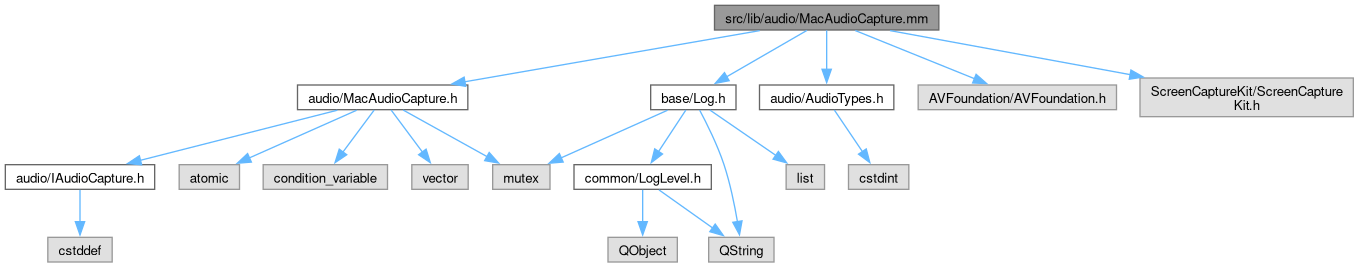
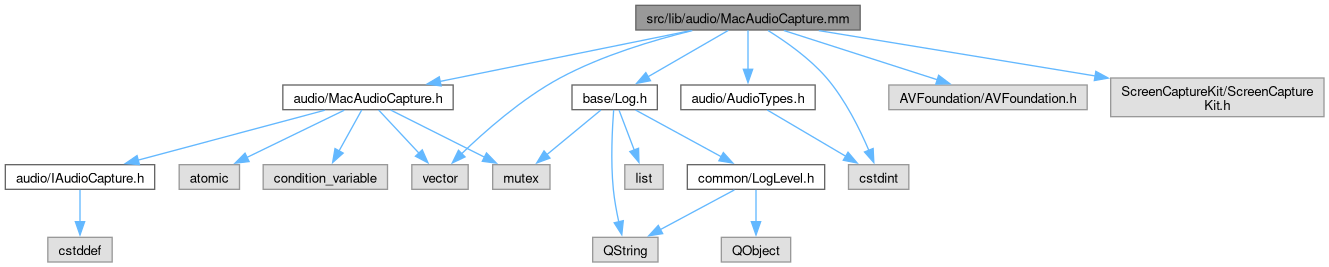
Deploying to gh-pages from @ oudajosefu/deskflow@6e931e1f8ef29edbad8c8bf99ab2422f95a3c308 🚀

diff --git a/MacAudioCapture_8h_source.html b/MacAudioCapture_8h_source.html
@@ -153,15 +153,15 @@ $(function(){initNavTree('MacAudioCapture_8h_source.html','',''); });
 <div class="ttc" id="aMacAudioCapture_8h_html_abdaadcb8f51c9c4423ab848590111983"><div class="ttname"><a href="MacAudioCapture_8h.html#abdaadcb8f51c9c4423ab848590111983">DeskflowAudioStreamOutput</a></div><div class="ttdeci">struct objc_object DeskflowAudioStreamOutput</div><div class="ttdef"><b>Definition</b> MacAudioCapture.h:21</div></div>
 <div class="ttc" id="aMacAudioCapture_8h_html_afaf832e82143f75a1d44a1131e4e8061"><div class="ttname"><a href="MacAudioCapture_8h.html#afaf832e82143f75a1d44a1131e4e8061">SCStream</a></div><div class="ttdeci">struct objc_object SCStream</div><div class="ttdef"><b>Definition</b> MacAudioCapture.h:20</div></div>
 <div class="ttc" id="aclassIAudioCapture_html"><div class="ttname"><a href="classIAudioCapture.html">IAudioCapture</a></div><div class="ttdoc">Platform-agnostic interface for capturing system audio output (loopback).</div><div class="ttdef"><b>Definition</b> IAudioCapture.h:13</div></div>
-<div class="ttc" id="aclassMacAudioCapture_html_a179a2bda7aa57c9bd58f9a57bb2425fe"><div class="ttname"><a href="classMacAudioCapture.html#a179a2bda7aa57c9bd58f9a57bb2425fe">MacAudioCapture::start</a></div><div class="ttdeci">bool start() override</div><div class="ttdoc">Open the capture device and start recording. Returns false on failure.</div><div class="ttdef"><b>Definition</b> MacAudioCapture.mm:81</div></div>
-<div class="ttc" id="aclassMacAudioCapture_html_a19eeee82b7a6ce2835ad0335f310c84c"><div class="ttname"><a href="classMacAudioCapture.html#a19eeee82b7a6ce2835ad0335f310c84c">MacAudioCapture::appendSamples</a></div><div class="ttdeci">void appendSamples(const float *data, size_t frames)</div><div class="ttdoc">Called by the Objective-C delegate when audio samples arrive.</div><div class="ttdef"><b>Definition</b> MacAudioCapture.mm:185</div></div>
+<div class="ttc" id="aclassMacAudioCapture_html_a179a2bda7aa57c9bd58f9a57bb2425fe"><div class="ttname"><a href="classMacAudioCapture.html#a179a2bda7aa57c9bd58f9a57bb2425fe">MacAudioCapture::start</a></div><div class="ttdeci">bool start() override</div><div class="ttdoc">Open the capture device and start recording. Returns false on failure.</div><div class="ttdef"><b>Definition</b> MacAudioCapture.mm:121</div></div>
+<div class="ttc" id="aclassMacAudioCapture_html_a19eeee82b7a6ce2835ad0335f310c84c"><div class="ttname"><a href="classMacAudioCapture.html#a19eeee82b7a6ce2835ad0335f310c84c">MacAudioCapture::appendSamples</a></div><div class="ttdeci">void appendSamples(const float *data, size_t frames)</div><div class="ttdoc">Called by the Objective-C delegate when audio samples arrive.</div><div class="ttdef"><b>Definition</b> MacAudioCapture.mm:225</div></div>
 <div class="ttc" id="aclassMacAudioCapture_html_a711ac2c3c3cc8806ec8b4c4439dd6c9c"><div class="ttname"><a href="classMacAudioCapture.html#a711ac2c3c3cc8806ec8b4c4439dd6c9c">MacAudioCapture::MacAudioCapture</a></div><div class="ttdeci">MacAudioCapture(const MacAudioCapture &amp;)=delete</div></div>
-<div class="ttc" id="aclassMacAudioCapture_html_a74edd5b90de64a2e91b7485833b5dcec"><div class="ttname"><a href="classMacAudioCapture.html#a74edd5b90de64a2e91b7485833b5dcec">MacAudioCapture::~MacAudioCapture</a></div><div class="ttdeci">~MacAudioCapture() override</div><div class="ttdef"><b>Definition</b> MacAudioCapture.mm:76</div></div>
+<div class="ttc" id="aclassMacAudioCapture_html_a74edd5b90de64a2e91b7485833b5dcec"><div class="ttname"><a href="classMacAudioCapture.html#a74edd5b90de64a2e91b7485833b5dcec">MacAudioCapture::~MacAudioCapture</a></div><div class="ttdeci">~MacAudioCapture() override</div><div class="ttdef"><b>Definition</b> MacAudioCapture.mm:116</div></div>
 <div class="ttc" id="aclassMacAudioCapture_html_abd1972553fb1283e08bdd4bc363704a3"><div class="ttname"><a href="classMacAudioCapture.html#abd1972553fb1283e08bdd4bc363704a3">MacAudioCapture::operator=</a></div><div class="ttdeci">MacAudioCapture &amp; operator=(const MacAudioCapture &amp;)=delete</div></div>
-<div class="ttc" id="aclassMacAudioCapture_html_acce71548b4bd9f4a11ceecaaa2640379"><div class="ttname"><a href="classMacAudioCapture.html#acce71548b4bd9f4a11ceecaaa2640379">MacAudioCapture::readFrames</a></div><div class="ttdeci">size_t readFrames(float *buf, size_t frames) override</div><div class="ttdef"><b>Definition</b> MacAudioCapture.mm:163</div></div>
-<div class="ttc" id="aclassMacAudioCapture_html_af8dfbb0a61f1bc23757361c1a48151a9"><div class="ttname"><a href="classMacAudioCapture.html#af8dfbb0a61f1bc23757361c1a48151a9">MacAudioCapture::stop</a></div><div class="ttdeci">void stop() override</div><div class="ttdoc">Stop capture and release device resources.</div><div class="ttdef"><b>Definition</b> MacAudioCapture.mm:151</div></div>
-<div class="ttc" id="aclassMacAudioCapture_html_aff3a220f746825c4b0f5a4b9dacf288c"><div class="ttname"><a href="classMacAudioCapture.html#aff3a220f746825c4b0f5a4b9dacf288c">MacAudioCapture::MacAudioCapture</a></div><div class="ttdeci">MacAudioCapture()</div><div class="ttdef"><b>Definition</b> MacAudioCapture.mm:72</div></div>
-<div class="ttc" id="ainterfaceDeskflowAudioStreamOutput_html"><div class="ttname"><a href="interfaceDeskflowAudioStreamOutput.html">DeskflowAudioStreamOutput</a></div><div class="ttdef"><b>Definition</b> MacAudioCapture.mm:20</div></div>
+<div class="ttc" id="aclassMacAudioCapture_html_acce71548b4bd9f4a11ceecaaa2640379"><div class="ttname"><a href="classMacAudioCapture.html#acce71548b4bd9f4a11ceecaaa2640379">MacAudioCapture::readFrames</a></div><div class="ttdeci">size_t readFrames(float *buf, size_t frames) override</div><div class="ttdef"><b>Definition</b> MacAudioCapture.mm:203</div></div>
+<div class="ttc" id="aclassMacAudioCapture_html_af8dfbb0a61f1bc23757361c1a48151a9"><div class="ttname"><a href="classMacAudioCapture.html#af8dfbb0a61f1bc23757361c1a48151a9">MacAudioCapture::stop</a></div><div class="ttdeci">void stop() override</div><div class="ttdoc">Stop capture and release device resources.</div><div class="ttdef"><b>Definition</b> MacAudioCapture.mm:191</div></div>
+<div class="ttc" id="aclassMacAudioCapture_html_aff3a220f746825c4b0f5a4b9dacf288c"><div class="ttname"><a href="classMacAudioCapture.html#aff3a220f746825c4b0f5a4b9dacf288c">MacAudioCapture::MacAudioCapture</a></div><div class="ttdeci">MacAudioCapture()</div><div class="ttdef"><b>Definition</b> MacAudioCapture.mm:112</div></div>
+<div class="ttc" id="ainterfaceDeskflowAudioStreamOutput_html"><div class="ttname"><a href="interfaceDeskflowAudioStreamOutput.html">DeskflowAudioStreamOutput</a></div><div class="ttdef"><b>Definition</b> MacAudioCapture.mm:23</div></div>
 </div><!-- fragment --></div><!-- contents -->
 </div><!-- doc-content -->
 </div><!-- container -->

diff --git a/MacAudioCapture_8mm.html b/MacAudioCapture_8mm.html
@@ -97,6 +97,8 @@ $(function(){initNavTree('MacAudioCapture_8mm.html','',''); });
 <div class="textblock"><code>#include &quot;<a class="el" href="MacAudioCapture_8h_source.html">audio/MacAudioCapture.h</a>&quot;</code><br />
 <code>#include &quot;<a class="el" href="AudioTypes_8h_source.html">audio/AudioTypes.h</a>&quot;</code><br />
 <code>#include &quot;<a class="el" href="Log_8h_source.html">base/Log.h</a>&quot;</code><br />
+<code>#include &lt;cstdint&gt;</code><br />
+<code>#include &lt;vector&gt;</code><br />
 <code>import &lt;AVFoundation/AVFoundation.h&gt;</code><br />
 <code>import &lt;ScreenCaptureKit/ScreenCaptureKit.h&gt;</code><br />
 </div><div class="textblock"><div class="dynheader">
@@ -104,41 +106,43 @@ Include dependency graph for MacAudioCapture.mm:</div>
 <div class="dyncontent">
 <div class="center"><img src="MacAudioCapture_8mm__incl.png" border="0" usemap="#asrc_2lib_2audio_2MacAudioCapture_8mm" loading="lazy" alt=""/></div>
 <map name="asrc_2lib_2audio_2MacAudioCapture_8mm" id="asrc_2lib_2audio_2MacAudioCapture_8mm">
-<area shape="rect" title=" " alt="" coords="714,5,939,30"/>
-<area shape="rect" href="MacAudioCapture_8h.html" title=" " alt="" coords="298,85,468,110"/>
-<area shape="poly" title=" " alt="" coords="757,32,465,84,464,79,762,30"/>
-<area shape="rect" href="AudioTypes_8h.html" title=" " alt="" coords="760,85,894,110"/>
-<area shape="poly" title=" " alt="" coords="828,28,829,71,825,68,825,32"/>
-<area shape="rect" href="Log_8h.html" title=" " alt="" coords="651,85,736,110"/>
-<area shape="poly" title=" " alt="" coords="809,29,728,79,725,74,805,31"/>
-<area shape="rect" title=" " alt="" coords="918,85,1116,110"/>
-<area shape="poly" title=" " alt="" coords="856,28,977,79,972,79,855,33"/>
-<area shape="rect" title=" " alt="" coords="1140,78,1353,117"/>
-<area shape="poly" title=" " alt="" coords="890,28,1133,74,1128,75,890,33"/>
-<area shape="rect" href="IAudioCapture_8h.html" title=" " alt="" coords="5,165,155,189"/>
-<area shape="poly" title=" " alt="" coords="337,113,141,163,140,158,338,108"/>
-<area shape="rect" title=" " alt="" coords="179,165,240,189"/>
-<area shape="poly" title=" " alt="" coords="359,109,250,160,248,156,354,111"/>
-<area shape="rect" title=" " alt="" coords="263,165,388,189"/>
-<area shape="poly" title=" " alt="" coords="376,109,345,154,341,150,372,111"/>
-<area shape="rect" title=" " alt="" coords="493,165,550,189"/>
-<area shape="poly" title=" " alt="" coords="404,107,490,157,484,157,403,113"/>
+<area shape="rect" title=" " alt="" coords="636,5,860,30"/>
+<area shape="rect" href="MacAudioCapture_8h.html" title=" " alt="" coords="283,85,453,110"/>
+<area shape="poly" title=" " alt="" coords="688,32,441,84,439,79,693,30"/>
 <area shape="rect" title=" " alt="" coords="412,165,468,189"/>
-<area shape="poly" title=" " alt="" coords="392,108,425,153,420,152,390,112"/>
+<area shape="poly" title=" " alt="" coords="690,31,628,52,561,80,506,118,463,156,460,152,503,113,559,76,626,47,695,30"/>
+<area shape="rect" href="AudioTypes_8h.html" title=" " alt="" coords="681,85,815,110"/>
+<area shape="poly" title=" " alt="" coords="750,28,750,71,746,68,746,32"/>
+<area shape="rect" title=" " alt="" coords="848,165,909,189"/>
+<area shape="poly" title=" " alt="" coords="769,28,799,49,829,76,854,113,871,152,867,149,849,116,825,80,796,53,768,33"/>
+<area shape="rect" href="Log_8h.html" title=" " alt="" coords="572,85,657,110"/>
+<area shape="poly" title=" " alt="" coords="731,29,649,79,647,74,726,31"/>
+<area shape="rect" title=" " alt="" coords="889,85,1087,110"/>
+<area shape="poly" title=" " alt="" coords="784,28,940,80,935,80,784,33"/>
+<area shape="rect" title=" " alt="" coords="1111,78,1324,117"/>
+<area shape="poly" title=" " alt="" coords="819,28,1098,76,1093,76,819,33"/>
+<area shape="rect" href="IAudioCapture_8h.html" title=" " alt="" coords="5,165,155,189"/>
+<area shape="poly" title=" " alt="" coords="324,113,139,163,137,158,326,108"/>
+<area shape="rect" title=" " alt="" coords="179,165,240,189"/>
+<area shape="poly" title=" " alt="" coords="347,109,248,160,246,155,342,111"/>
+<area shape="rect" title=" " alt="" coords="263,165,388,189"/>
+<area shape="poly" title=" " alt="" coords="364,108,341,153,337,149,360,112"/>
+<area shape="rect" title=" " alt="" coords="493,165,550,189"/>
+<area shape="poly" title=" " alt="" coords="391,107,487,157,482,157,390,113"/>
+<area shape="poly" title=" " alt="" coords="380,108,422,154,417,153,378,113"/>
 <area shape="rect" title=" " alt="" coords="48,237,112,262"/>
 <area shape="poly" title=" " alt="" coords="82,188,83,223,77,221,78,192"/>
-<area shape="rect" title=" " alt="" coords="848,165,909,189"/>
-<area shape="poly" title=" " alt="" coords="835,108,865,153,860,151,833,112"/>
-<area shape="poly" title=" " alt="" coords="670,109,562,160,560,155,665,111"/>
-<area shape="rect" href="LogLevel_8h.html" title=" " alt="" coords="574,165,711,189"/>
-<area shape="poly" title=" " alt="" coords="688,109,660,154,657,150,684,111"/>
-<area shape="rect" title=" " alt="" coords="709,237,774,262"/>
-<area shape="poly" title=" " alt="" coords="701,108,727,164,740,223,735,220,721,166,698,112"/>
-<area shape="rect" title=" " alt="" coords="786,165,825,189"/>
-<area shape="poly" title=" " alt="" coords="711,107,779,156,774,155,709,113"/>
-<area shape="rect" title=" " alt="" coords="608,237,677,262"/>
-<area shape="poly" title=" " alt="" coords="645,188,645,224,641,220,641,192"/>
-<area shape="poly" title=" " alt="" coords="660,187,715,229,710,227,658,192"/>
+<area shape="poly" title=" " alt="" coords="768,107,848,157,843,156,767,113"/>
+<area shape="poly" title=" " alt="" coords="603,109,548,157,546,152,598,111"/>
+<area shape="rect" href="LogLevel_8h.html" title=" " alt="" coords="687,165,825,189"/>
+<area shape="poly" title=" " alt="" coords="636,107,724,157,718,156,635,113"/>
+<area shape="rect" title=" " alt="" coords="593,237,658,262"/>
+<area shape="poly" title=" " alt="" coords="615,108,615,145,616,189,621,224,617,220,611,190,609,145,612,112"/>
+<area shape="rect" title=" " alt="" coords="625,165,663,189"/>
+<area shape="poly" title=" " alt="" coords="620,108,637,151,632,149,618,112"/>
+<area shape="rect" title=" " alt="" coords="721,237,791,262"/>
+<area shape="poly" title=" " alt="" coords="758,188,758,224,754,220,754,192"/>
+<area shape="poly" title=" " alt="" coords="737,189,661,232,659,227,732,191"/>
 </map>
 </div>
 </div><table class="memberdecls">

diff --git a/WinAudioCapture_8cpp.html b/WinAudioCapture_8cpp.html
@@ -98,23 +98,32 @@ $(function(){initNavTree('WinAudioCapture_8cpp.html','',''); });
 <code>#include &quot;<a class="el" href="AudioTypes_8h_source.html">audio/AudioTypes.h</a>&quot;</code><br />
 <code>#include &quot;<a class="el" href="Log_8h_source.html">base/Log.h</a>&quot;</code><br />
 <code>#include &lt;functiondiscoverykeys_devpkey.h&gt;</code><br />
+<code>#include &lt;algorithm&gt;</code><br />
+<code>#include &lt;cstdint&gt;</code><br />
+<code>#include &lt;cstring&gt;</code><br />
 <code>#include &lt;vector&gt;</code><br />
 </div><div class="textblock"><div class="dynheader">
 Include dependency graph for WinAudioCapture.cpp:</div>
 <div class="dyncontent">
 <div class="center"><img src="WinAudioCapture_8cpp__incl.png" border="0" usemap="#asrc_2lib_2audio_2WinAudioCapture_8cpp" loading="lazy" alt=""/></div>
 <map name="asrc_2lib_2audio_2WinAudioCapture_8cpp" id="asrc_2lib_2audio_2WinAudioCapture_8cpp">
-<area shape="rect" title=" " alt="" coords="664,5,885,30"/>
+<area shape="rect" title=" " alt="" coords="713,5,935,30"/>
 <area shape="rect" href="WinAudioCapture_8h.html" title=" " alt="" coords="269,85,438,110"/>
-<area shape="poly" title=" " alt="" coords="709,32,433,84,431,79,714,29"/>
-<area shape="rect" href="AudioTypes_8h.html" title=" " alt="" coords="526,85,660,110"/>
-<area shape="poly" title=" " alt="" coords="750,30,635,81,634,76,745,31"/>
-<area shape="rect" href="Log_8h.html" title=" " alt="" coords="732,85,817,110"/>
-<area shape="poly" title=" " alt="" coords="776,28,777,71,772,68,773,32"/>
-<area shape="rect" title=" " alt="" coords="841,78,991,117"/>
-<area shape="poly" title=" " alt="" coords="796,28,871,70,866,70,795,33"/>
-<area shape="rect" title=" " alt="" coords="1014,85,1071,110"/>
-<area shape="poly" title=" " alt="" coords="830,28,913,48,1004,75,1007,79,1002,79,1002,81,912,53,830,33"/>
+<area shape="poly" title=" " alt="" coords="751,32,440,84,439,79,755,29"/>
+<area shape="rect" href="AudioTypes_8h.html" title=" " alt="" coords="502,85,636,110"/>
+<area shape="poly" title=" " alt="" coords="788,30,623,83,621,77,783,31"/>
+<area shape="rect" title=" " alt="" coords="539,165,600,189"/>
+<area shape="poly" title=" " alt="" coords="798,30,750,53,700,80,674,99,650,119,598,158,595,153,646,115,671,94,697,76,748,49,793,31"/>
+<area shape="rect" href="Log_8h.html" title=" " alt="" coords="711,85,796,110"/>
+<area shape="poly" title=" " alt="" coords="816,29,776,76,773,71,811,32"/>
+<area shape="rect" title=" " alt="" coords="820,78,969,117"/>
+<area shape="poly" title=" " alt="" coords="835,28,870,67,865,66,834,33"/>
+<area shape="rect" title=" " alt="" coords="994,85,1068,110"/>
+<area shape="poly" title=" " alt="" coords="855,28,988,79,983,79,855,33"/>
+<area shape="rect" title=" " alt="" coords="1092,85,1153,110"/>
+<area shape="poly" title=" " alt="" coords="889,28,980,48,1081,75,1086,79,1081,79,1079,81,979,53,888,33"/>
+<area shape="rect" title=" " alt="" coords="1177,85,1234,110"/>
+<area shape="poly" title=" " alt="" coords="932,28,1046,46,1166,75,1171,79,1166,79,1165,81,1045,52,932,33"/>
 <area shape="rect" href="IAudioCapture_8h.html" title=" " alt="" coords="5,165,155,189"/>
 <area shape="poly" title=" " alt="" coords="312,113,137,162,135,157,313,108"/>
 <area shape="rect" title=" " alt="" coords="179,165,274,189"/>
@@ -125,16 +134,15 @@ Include dependency graph for WinAudioCapture.cpp:</div>
 <area shape="poly" title=" " alt="" coords="372,107,445,156,440,156,370,113"/>
 <area shape="rect" title=" " alt="" coords="48,237,112,262"/>
 <area shape="poly" title=" " alt="" coords="82,188,83,223,77,221,78,192"/>
-<area shape="rect" title=" " alt="" coords="539,165,600,189"/>
-<area shape="poly" title=" " alt="" coords="592,108,579,152,575,148,588,112"/>
+<area shape="poly" title=" " alt="" coords="571,108,572,151,567,147,568,112"/>
 <area shape="rect" href="LogLevel_8h.html" title=" " alt="" coords="623,165,761,189"/>
-<area shape="poly" title=" " alt="" coords="765,109,717,156,714,151,760,111"/>
+<area shape="poly" title=" " alt="" coords="747,109,712,155,709,150,742,111"/>
 <area shape="rect" title=" " alt="" coords="758,237,823,262"/>
-<area shape="poly" title=" " alt="" coords="778,108,790,223,786,221,774,112"/>
+<area shape="poly" title=" " alt="" coords="759,108,776,164,788,223,784,220,771,165,756,112"/>
 <area shape="rect" title=" " alt="" coords="835,165,874,189"/>
-<area shape="poly" title=" " alt="" coords="787,108,835,154,829,153,786,113"/>
+<area shape="poly" title=" " alt="" coords="769,107,830,155,825,154,768,113"/>
 <area shape="rect" title=" " alt="" coords="898,165,955,189"/>
-<area shape="poly" title=" " alt="" coords="798,107,893,157,887,157,797,113"/>
+<area shape="poly" title=" " alt="" coords="780,108,889,158,884,158,779,113"/>
 <area shape="rect" title=" " alt="" coords="657,237,727,262"/>
 <area shape="poly" title=" " alt="" coords="694,188,694,224,690,220,690,192"/>
 <area shape="poly" title=" " alt="" coords="709,187,765,229,759,227,707,192"/>

diff --git a/WinAudioCapture_8h_source.html b/WinAudioCapture_8h_source.html
@@ -134,12 +134,12 @@ $(function(){initNavTree('WinAudioCapture_8h_source.html','',''); });
 <div class="ttc" id="aArchNetworkWinsock_8cpp_html_ac2b1742b0d829eff8513995ebd5a0bac"><div class="ttname"><a href="ArchNetworkWinsock_8cpp.html#ac2b1742b0d829eff8513995ebd5a0bac">buf</a></div><div class="ttdeci">static void FAR * buf</div><div class="ttdef"><b>Definition</b> ArchNetworkWinsock.cpp:38</div></div>
 <div class="ttc" id="aIAudioCapture_8h_html"><div class="ttname"><a href="IAudioCapture_8h.html">IAudioCapture.h</a></div></div>
 <div class="ttc" id="aclassIAudioCapture_html"><div class="ttname"><a href="classIAudioCapture.html">IAudioCapture</a></div><div class="ttdoc">Platform-agnostic interface for capturing system audio output (loopback).</div><div class="ttdef"><b>Definition</b> IAudioCapture.h:13</div></div>
-<div class="ttc" id="aclassWinAudioCapture_html_a24bb79d4f93e20ee801449319553c748"><div class="ttname"><a href="classWinAudioCapture.html#a24bb79d4f93e20ee801449319553c748">WinAudioCapture::readFrames</a></div><div class="ttdeci">size_t readFrames(float *buf, size_t frames) override</div><div class="ttdef"><b>Definition</b> WinAudioCapture.cpp:128</div></div>
-<div class="ttc" id="aclassWinAudioCapture_html_a2b87def79ee8b13ecbc9cbabeb2aa0f9"><div class="ttname"><a href="classWinAudioCapture.html#a2b87def79ee8b13ecbc9cbabeb2aa0f9">WinAudioCapture::start</a></div><div class="ttdeci">bool start() override</div><div class="ttdoc">Open the capture device and start recording. Returns false on failure.</div><div class="ttdef"><b>Definition</b> WinAudioCapture.cpp:47</div></div>
+<div class="ttc" id="aclassWinAudioCapture_html_a24bb79d4f93e20ee801449319553c748"><div class="ttname"><a href="classWinAudioCapture.html#a24bb79d4f93e20ee801449319553c748">WinAudioCapture::readFrames</a></div><div class="ttdeci">size_t readFrames(float *buf, size_t frames) override</div><div class="ttdef"><b>Definition</b> WinAudioCapture.cpp:191</div></div>
+<div class="ttc" id="aclassWinAudioCapture_html_a2b87def79ee8b13ecbc9cbabeb2aa0f9"><div class="ttname"><a href="classWinAudioCapture.html#a2b87def79ee8b13ecbc9cbabeb2aa0f9">WinAudioCapture::start</a></div><div class="ttdeci">bool start() override</div><div class="ttdoc">Open the capture device and start recording. Returns false on failure.</div><div class="ttdef"><b>Definition</b> WinAudioCapture.cpp:105</div></div>
 <div class="ttc" id="aclassWinAudioCapture_html_a494b48c0cd20d9beb546b6af3547e653"><div class="ttname"><a href="classWinAudioCapture.html#a494b48c0cd20d9beb546b6af3547e653">WinAudioCapture::WinAudioCapture</a></div><div class="ttdeci">WinAudioCapture()=default</div></div>
-<div class="ttc" id="aclassWinAudioCapture_html_a6759ea30f03e6619dcaf7ed5597c4c39"><div class="ttname"><a href="classWinAudioCapture.html#a6759ea30f03e6619dcaf7ed5597c4c39">WinAudioCapture::~WinAudioCapture</a></div><div class="ttdeci">~WinAudioCapture() override</div><div class="ttdef"><b>Definition</b> WinAudioCapture.cpp:35</div></div>
+<div class="ttc" id="aclassWinAudioCapture_html_a6759ea30f03e6619dcaf7ed5597c4c39"><div class="ttname"><a href="classWinAudioCapture.html#a6759ea30f03e6619dcaf7ed5597c4c39">WinAudioCapture::~WinAudioCapture</a></div><div class="ttdeci">~WinAudioCapture() override</div><div class="ttdef"><b>Definition</b> WinAudioCapture.cpp:93</div></div>
 <div class="ttc" id="aclassWinAudioCapture_html_a96e60b387e4d55afd0ee4ee2b7468cd2"><div class="ttname"><a href="classWinAudioCapture.html#a96e60b387e4d55afd0ee4ee2b7468cd2">WinAudioCapture::WinAudioCapture</a></div><div class="ttdeci">WinAudioCapture(const WinAudioCapture &amp;)=delete</div></div>
-<div class="ttc" id="aclassWinAudioCapture_html_acfc71f7411d363702f8b0a4a1874c9cb"><div class="ttname"><a href="classWinAudioCapture.html#acfc71f7411d363702f8b0a4a1874c9cb">WinAudioCapture::stop</a></div><div class="ttdeci">void stop() override</div><div class="ttdoc">Stop capture and release device resources.</div><div class="ttdef"><b>Definition</b> WinAudioCapture.cpp:118</div></div>
+<div class="ttc" id="aclassWinAudioCapture_html_acfc71f7411d363702f8b0a4a1874c9cb"><div class="ttname"><a href="classWinAudioCapture.html#acfc71f7411d363702f8b0a4a1874c9cb">WinAudioCapture::stop</a></div><div class="ttdeci">void stop() override</div><div class="ttdoc">Stop capture and release device resources.</div><div class="ttdef"><b>Definition</b> WinAudioCapture.cpp:181</div></div>
 <div class="ttc" id="aclassWinAudioCapture_html_afeb4258e0a4f215be9ed00bb3a68c5d8"><div class="ttname"><a href="classWinAudioCapture.html#afeb4258e0a4f215be9ed00bb3a68c5d8">WinAudioCapture::operator=</a></div><div class="ttdeci">WinAudioCapture &amp; operator=(const WinAudioCapture &amp;)=delete</div></div>
 </div><!-- fragment --></div><!-- contents -->
 </div><!-- doc-content -->
